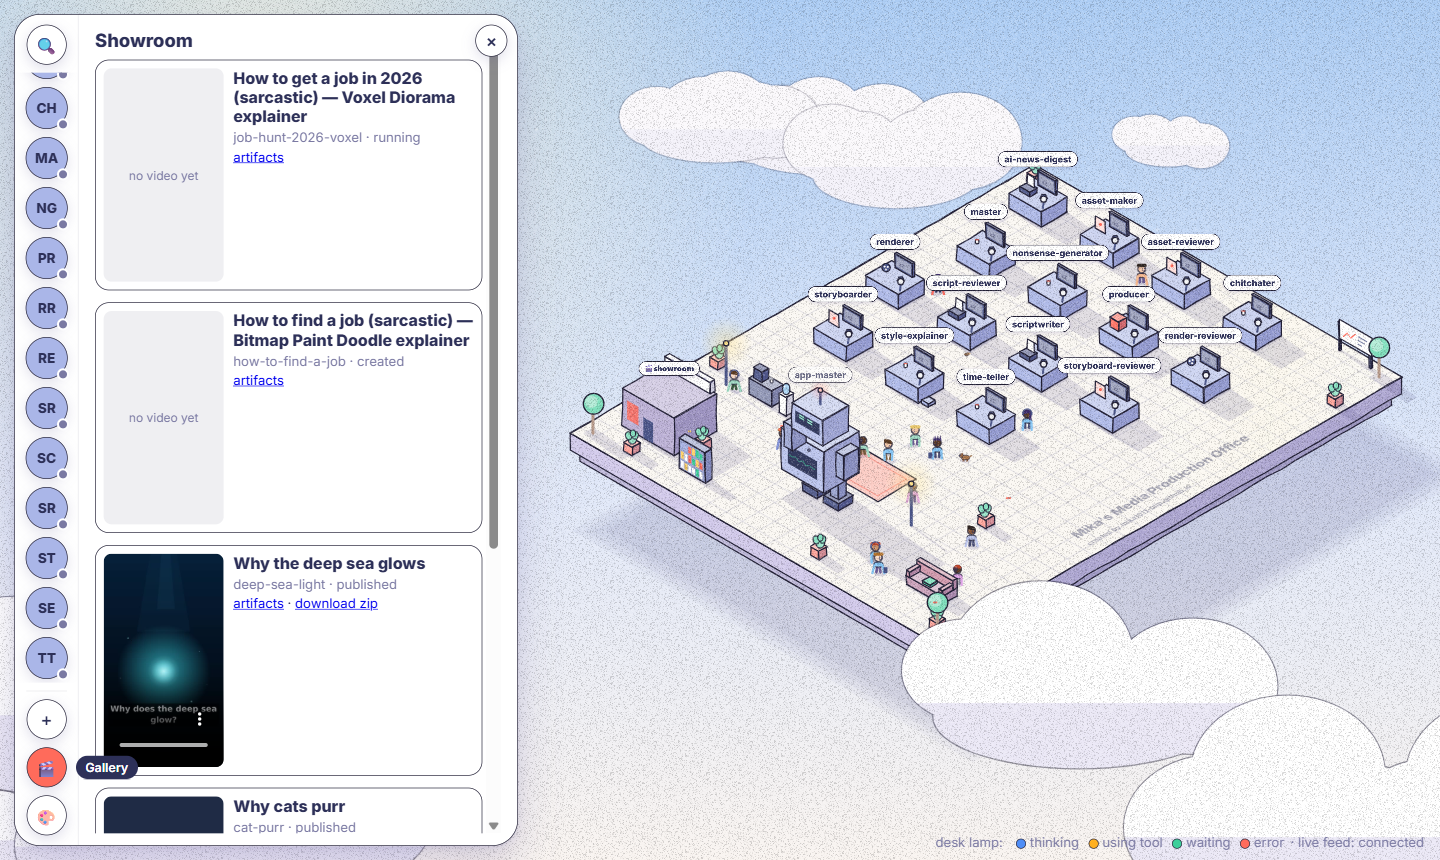
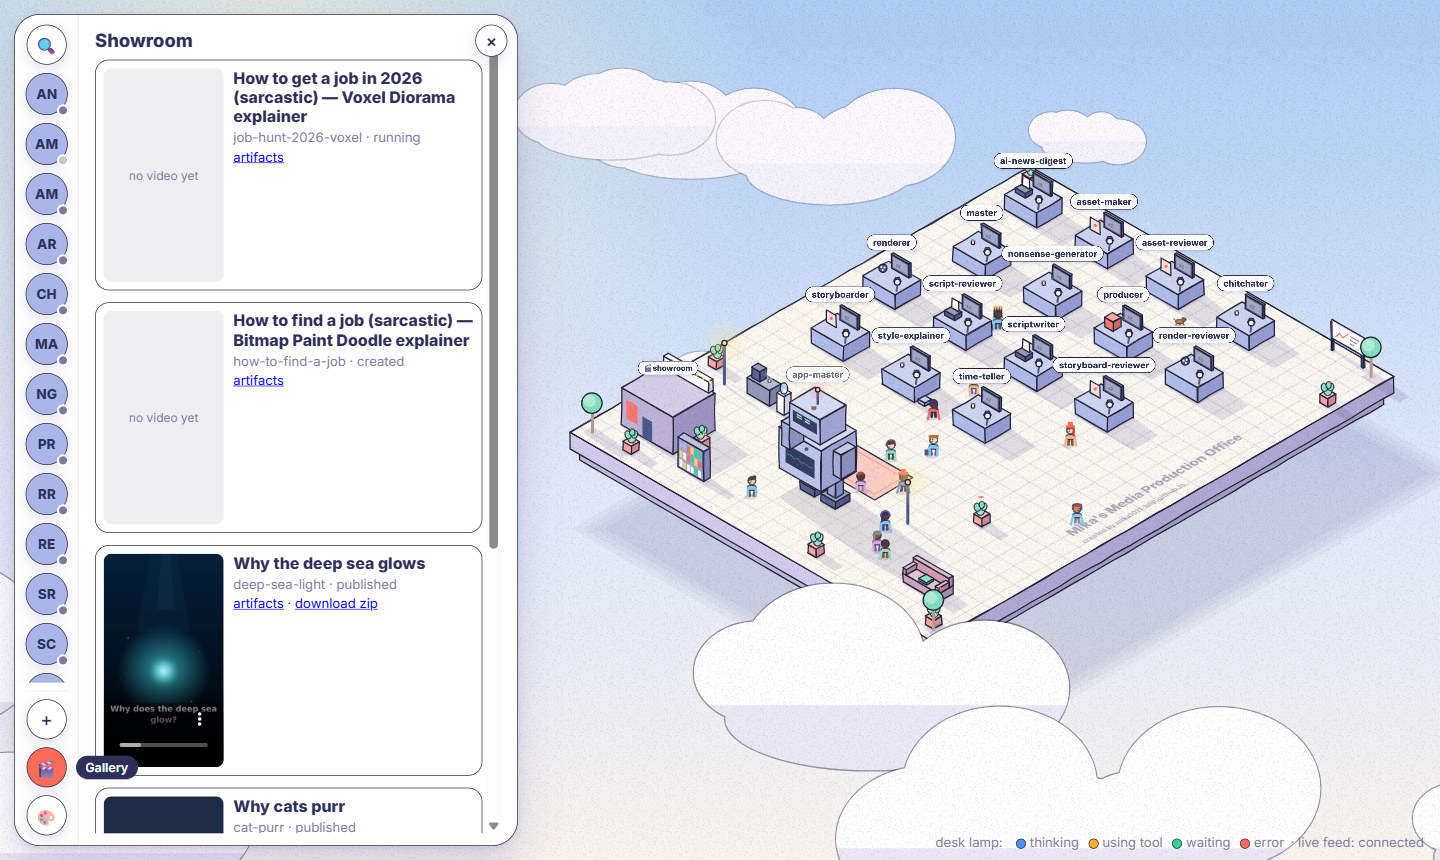
Office: lighter surface grain by default; refresh README screenshots

diff --git a/frontend/src/theme.ts b/frontend/src/theme.ts
@@ -25,25 +25,25 @@ export const PRESETS: Theme[] = [
     name: "Pastel",
     background: ["#f6efe8", "#efeaf4", "#e4e3f3"],
     slab: "#cfc6ea", floor: "#fbf8f3", ink: "#2d3058", muted: "#7b7aa3", accent: "#ff6b5b", good: "#3ccf9a",
-    machine: "#aab6e8", machineDark: "#4a5488", tagBg: "#ffffff", edge: { color: "#1f1d33", width: 1.25 }, grain: 0.5,
+    machine: "#aab6e8", machineDark: "#4a5488", tagBg: "#ffffff", edge: { color: "#1f1d33", width: 1.25 }, grain: 0.2,
   },
   {
     name: "Mint",
     background: ["#eef8f1", "#e6f3ee", "#dcebe9"],
     slab: "#b8d9cc", floor: "#f7fbf6", ink: "#1f3a33", muted: "#6b8a80", accent: "#ff7a59", good: "#2fb58a",
-    machine: "#9fcbbe", machineDark: "#3f6b60", tagBg: "#ffffff", edge: { color: "#17302a", width: 1.25 }, grain: 0.5,
+    machine: "#9fcbbe", machineDark: "#3f6b60", tagBg: "#ffffff", edge: { color: "#17302a", width: 1.25 }, grain: 0.2,
   },
   {
     name: "Dusk",
     background: ["#e9e1f2", "#dcd3ec", "#cfc6e6"],
     slab: "#a995d6", floor: "#f4eef8", ink: "#2a2140", muted: "#6f6594", accent: "#ff8c5a", good: "#4fd1a0",
-    machine: "#9d9ae0", machineDark: "#3f3a7a", tagBg: "#fbf8ff", edge: { color: "#241c3a", width: 1.5 }, grain: 0.6,
+    machine: "#9d9ae0", machineDark: "#3f3a7a", tagBg: "#fbf8ff", edge: { color: "#241c3a", width: 1.5 }, grain: 0.25,
   },
   {
     name: "Paper",
     background: ["#fbfaf7", "#f4f3ef", "#ebeae5"],
     slab: "#cdcac3", floor: "#fdfcfa", ink: "#262626", muted: "#6f6f6f", accent: "#e4572e", good: "#3a9f6a",
-    machine: "#c9c6bd", machineDark: "#55524b", tagBg: "#ffffff", edge: { color: "#111111", width: 1.75 }, grain: 0.7,
+    machine: "#c9c6bd", machineDark: "#55524b", tagBg: "#ffffff", edge: { color: "#111111", width: 1.75 }, grain: 0.3,
   },
 ];
 
